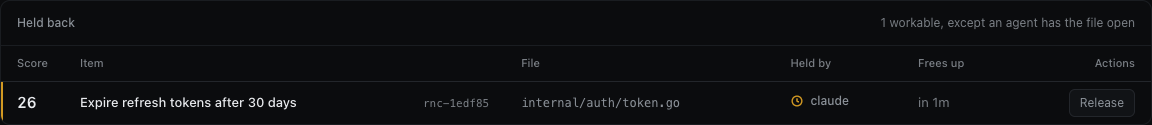
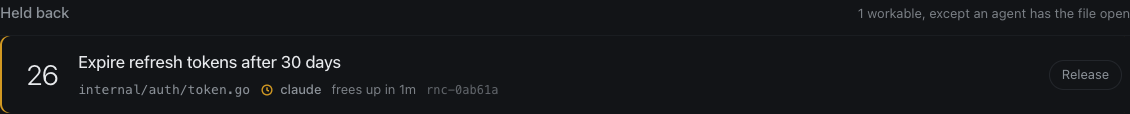
fix(dash): the item page says when something is holding an item
Found by looking at the item page in the adversarial pass rather than at
the board. An item the queue had hidden -- because an agent has its file
open -- rendered here with a Claim button and no mention of it at all. You
follow a link from a list, the thing is missing from that list, and the
page it takes you to acts as though nothing is happening.

It now says what is holding it, whose session, and when the lease frees up,
and it is honest about what Claim still does: you can take it, and Interlock
will refuse the write.

The check runs the item through the same interlock.Exclude call the queue
uses rather than comparing paths itself. A second rule for "is this held"
could disagree with the board's, which is exactly the split  exists
to prevent.

Also reverted from the last commit: reveal-on-hover for row controls. The
references that do it are hiding secondary actions; here the row controls
are Start agent and Claim, which are the entire point of the queue. Resting
them at 55% made them read as disabled -- most obviously in a screenshot,
where there is no cursor to explain the dimness, but in use too. The row
still responds, with its background.

diff --git a/internal/dash/style.css b/internal/dash/style.css
@@ -802,15 +802,16 @@ tbody tr:hover td { background: color-mix(in srgb, var(--fg) 4%, transparent); }
 .btn { transition: background var(--tempo) ease, border-color var(--tempo) ease,
                    color var(--tempo) ease, transform 60ms ease; }
 
-/* Rows lift their actions on approach. The controls are always present for
-   a keyboard and for a screen reader -- this is opacity, never display --
-   so a row is not a puzzle you have to hover to solve. */
-.qacts { transition: opacity var(--tempo) ease; }
-@media (hover: hover) and (min-width: 900px) {
-  .qrow .qacts { opacity: 0.55; }
-  .qrow:hover .qacts,
-  .qrow:focus-within .qacts { opacity: 1; }
-}
+/* Reveal-on-hover was tried here and taken back out. The references that do
+   it are hiding secondary actions; on this page the row controls are Start
+   agent and Claim, which are the entire point of the queue. Resting them at
+   55% made them read as disabled -- most obviously in a screenshot, where
+   there is no cursor to explain the dimness, but in use too: a control you
+   have to approach before you can tell whether it is live is a control that
+   costs a decision.
+
+   The row still responds. It just does it with the background, which says
+   "you are here" without saying "this was off until now". */
 
 /* The nav marks where you are on the way in, not after a jump. */
 .nav-item, .project-item { transition: background var(--tempo) ease, color var(--tempo) ease; }

diff --git a/internal/dash/testdata/tree.golden.html b/internal/dash/testdata/tree.golden.html
@@ -810,15 +810,16 @@ tbody tr:hover td { background: color-mix(in srgb, var(--fg) 4%, transparent); }
 .btn { transition: background var(--tempo) ease, border-color var(--tempo) ease,
                    color var(--tempo) ease, transform 60ms ease; }
 
-/* Rows lift their actions on approach. The controls are always present for
-   a keyboard and for a screen reader -- this is opacity, never display --
-   so a row is not a puzzle you have to hover to solve. */
-.qacts { transition: opacity var(--tempo) ease; }
-@media (hover: hover) and (min-width: 900px) {
-  .qrow .qacts { opacity: 0.55; }
-  .qrow:hover .qacts,
-  .qrow:focus-within .qacts { opacity: 1; }
-}
+/* Reveal-on-hover was tried here and taken back out. The references that do
+   it are hiding secondary actions; on this page the row controls are Start
+   agent and Claim, which are the entire point of the queue. Resting them at
+   55% made them read as disabled -- most obviously in a screenshot, where
+   there is no cursor to explain the dimness, but in use too: a control you
+   have to approach before you can tell whether it is live is a control that
+   costs a decision.
+
+   The row still responds. It just does it with the background, which says
+   "you are here" without saying "this was off until now". */
 
 /* The nav marks where you are on the way in, not after a jump. */
 .nav-item, .project-item { transition: background var(--tempo) ease, color var(--tempo) ease; }

diff --git a/internal/dash/templates/item.html b/internal/dash/templates/item.html
@@ -15,6 +15,19 @@
   {{if .ParentID}} · under <a href="{{$p.Prefix}}/item/{{.ParentID}}">{{.ParentID}}</a>{{end}}
 </p>
 
+{{with .Held}}
+{{/* The queue hides a held item; this page used to offer Claim on it as
+     though it were free, and said nothing about why it had disappeared
+     from the list you arrived from. Same Exclude call the queue uses, so
+     the two cannot disagree about what is held. */}}
+<div class="banner banner-notice" role="status">
+  {{template "icon-clock"}}
+  <span class="grow">Held back — <span class="path">{{.Path}}</span> is open in
+  {{.Lease.Agent}}'s session, so this is out of the queue until the lease frees up
+  {{until .Lease.ExpiresAt}}. You can still claim it; Interlock will refuse the write.</span>
+</div>
+{{end}}
+
 {{if $p.Writable}}
 <div class="toolbar">
   {{if eq (printf "%s" .Status) "open"}}{{template "action" (act $p "start" .ID "Claim" "" false)}}{{end}}

diff --git a/internal/dash/interlock.go b/internal/dash/interlock.go
@@ -37,6 +37,28 @@ func (s *Server) readyItemsFrom(ctx context.Context, st *store.Store, dir string
 	return kept, held, nil
 }
 
+// heldFor reports the collision holding one item back, if any.
+//
+// It runs the item through interlock.Exclude -- the same call the queue
+// uses -- rather than comparing paths itself. A second rule for "is this
+// held" could disagree with the board's, which is exactly the split
+// DASH-07 exists to prevent: the item page would offer Claim on work the
+// queue had already hidden, and neither page could explain the other.
+func (s *Server) heldFor(ctx context.Context, item model.Item, dir string) *interlock.Collision {
+	if !interlock.Watches(dir) {
+		return nil
+	}
+	status, ok := interlock.Fetch(ctx, dir)
+	if !ok {
+		return nil
+	}
+	_, held := interlock.Exclude([]model.Item{item}, status)
+	if len(held) == 0 {
+		return nil
+	}
+	return &held[0]
+}
+
 // interlockRelease is the one Interlock mutation this board offers.
 func interlockRelease(ctx context.Context, session string) error {
 	return interlock.Release(ctx, session)

diff --git a/internal/dash/render.go b/internal/dash/render.go
@@ -67,8 +67,12 @@ func backlogRows(items []model.Item) []backlogRow {
 // The body renders inside <pre> as plain text -- never markdown-to-HTML,
 // never template.HTML. A parent id and each dep's other end are links to
 // /item/{{...}}, built from the id field alone.
+// The item view carries the lease holding it back, if any. renderItem takes
+// a bare detail and wraps it with no hold, because its callers -- the
+// golden-file smoke test and any future non-HTTP renderer -- have no
+// Interlock to ask. The handler builds the view itself.
 func renderItem(d model.ItemDetail) ([]byte, error) {
-	return execute("item", d)
+	return execute("item", itemView{ItemDetail: d})
 }
 
 // renderTree renders one row per model.TreeNode, indented by Depth via the

diff --git a/internal/dash/page.go b/internal/dash/page.go
@@ -267,6 +267,15 @@ type actionArgs struct {
 
 // holdsFor names the files one session is holding, for the agents table.
 // Presentation only: it joins facts Interlock already reported.
+// itemView is one item's page: its detail, and the lease holding it back
+// if there is one. The board hides a held item from the queue; without this
+// the item page offered Claim on it as though it were free, and said
+// nothing about why it had vanished from the list you came from.
+type itemView struct {
+	model.ItemDetail
+	Held *interlock.Collision
+}
+
 // stateTag is one state marker: the semantic slug that picks its glyph and
 // colour, and the word printed beside it.
 type stateTag struct {

diff --git a/internal/dash/handlers.go b/internal/dash/handlers.go
@@ -111,7 +111,9 @@ func (s *Server) handleItem(w http.ResponseWriter, r *http.Request) {
 		s.fail(w, err)
 		return
 	}
-	s.render(w, "item", s.pageFor(r, "", name, d))
+	path := s.pathFor(r.PathValue("project"))
+	view := itemView{ItemDetail: d, Held: s.heldFor(r.Context(), d.Item, repoDirOf(path))}
+	s.render(w, "item", s.pageFor(r, "", name, view))
 }
 
 // handleTree renders the subtree beneath {id}.
